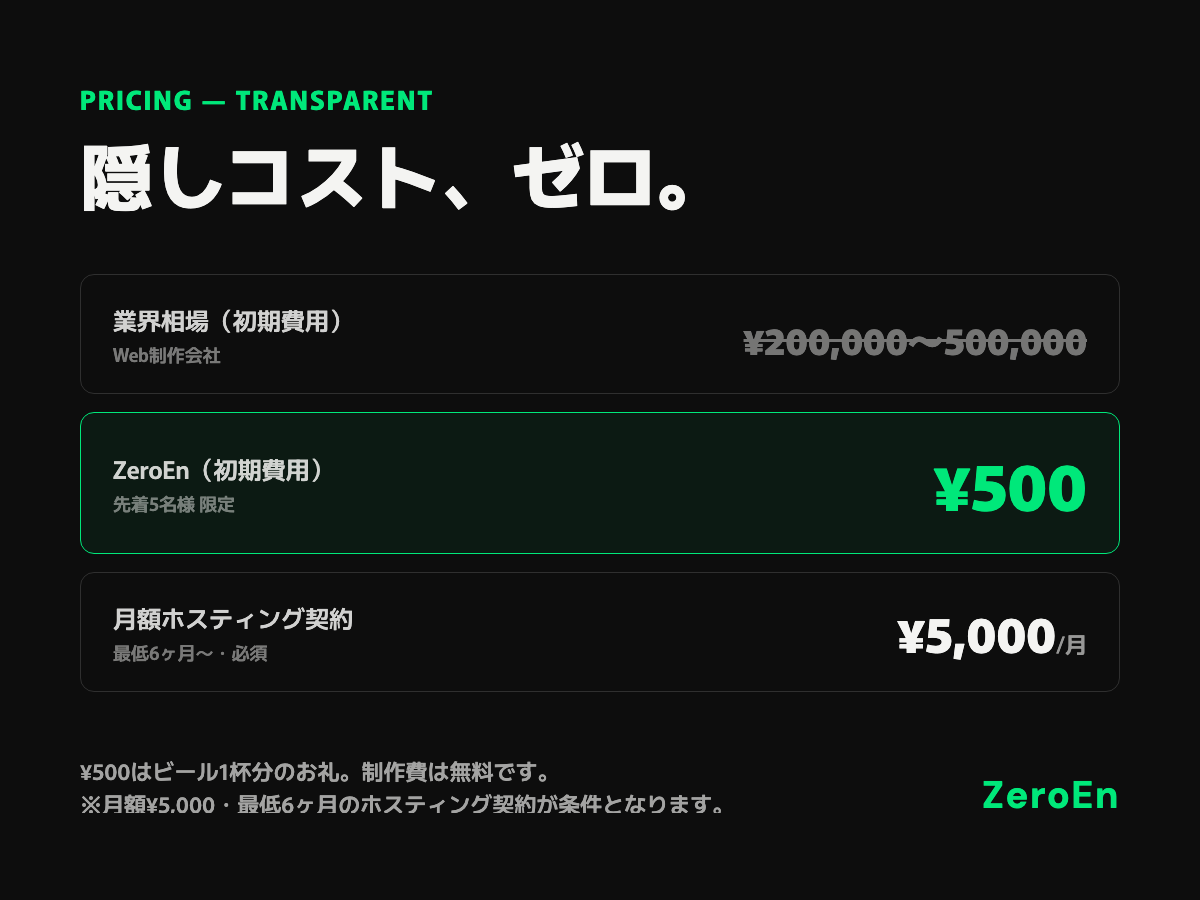
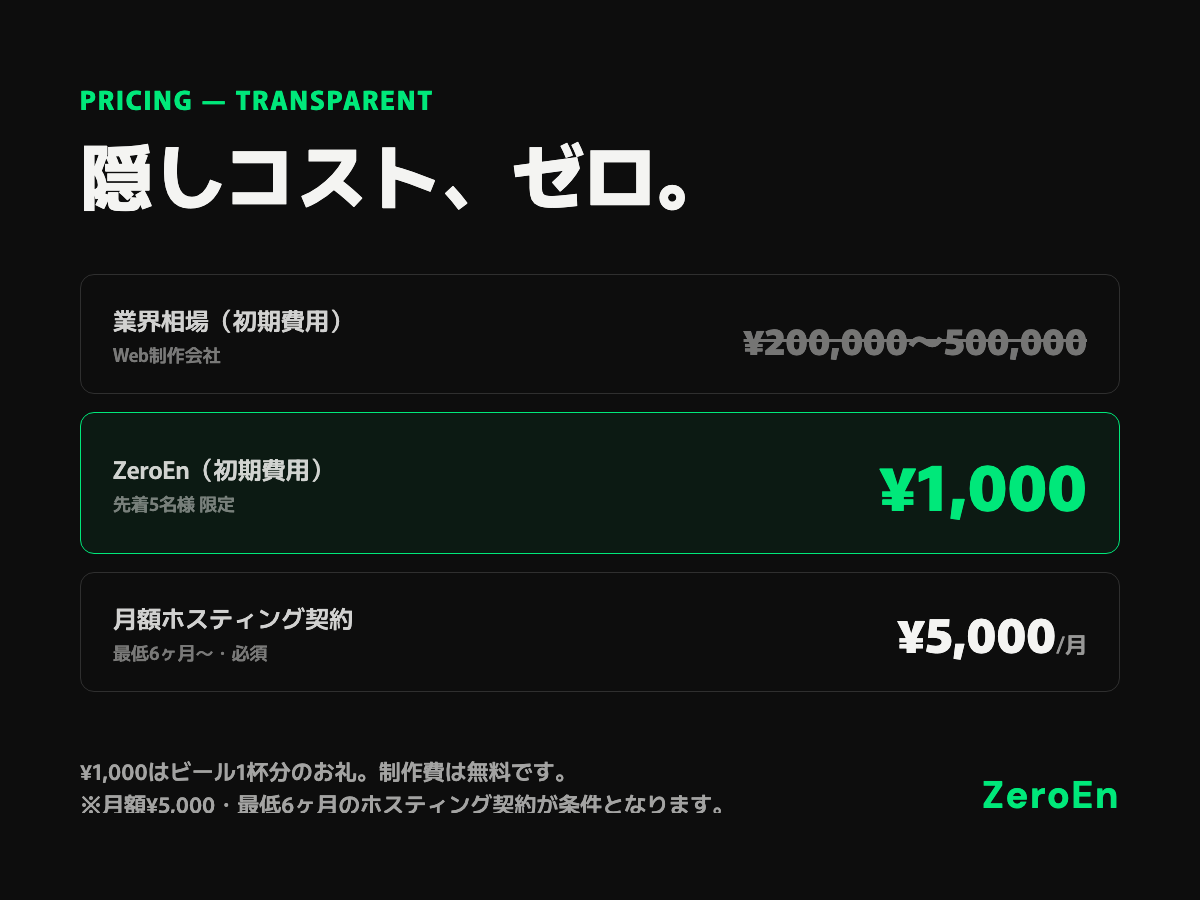
fix(marketing): update listing price ¥500 → ¥1,000 across copy and images
Coconala ITコンサル相談 category minimum is ¥1,000. Updated all
references in coconala-listing.ja.md and re-rendered listing-image-1,
listing-image-3, listing-image-6.

Changed region(s): [[0.0617, 0.84, 0.4625, 0.8711], [0.74, 0.4978, 0.8325, 0.5911]]

diff --git a/HQ/marketing/campaigns/2026-04-first-5/assets/listing-image-3-pricing.html b/HQ/marketing/campaigns/2026-04-first-5/assets/listing-image-3-pricing.html
@@ -34,7 +34,7 @@
     </div>
     <div class="row highlight">
       <div class="label">ZeroEn（初期費用）<span class="sub">先着5名様 限定</span></div>
-      <div class="value"><span class="accent">¥500</span></div>
+      <div class="value"><span class="accent">¥1,000</span></div>
     </div>
     <div class="row">
       <div class="label">月額ホスティング契約<span class="sub">最低6ヶ月〜・必須</span></div>
@@ -42,7 +42,7 @@
     </div>
   </div>
   <div class="footer">
-    <div class="footnote">¥500はビール1杯分のお礼。制作費は無料です。<br>※月額¥5,000・最低6ヶ月のホスティング契約が条件となります。</div>
+    <div class="footnote">¥1,000はビール1杯分のお礼。制作費は無料です。<br>※月額¥5,000・最低6ヶ月のホスティング契約が条件となります。</div>
     <div class="wordmark">ZeroEn</div>
   </div>
 </body></html>

diff --git a/HQ/marketing/campaigns/2026-04-first-5/assets/listing-image-6-wireframe.html b/HQ/marketing/campaigns/2026-04-first-5/assets/listing-image-6-wireframe.html
@@ -74,7 +74,7 @@
     </div>
   </div>
   <div class="footer">
-    <div class="footnote">構成はヒアリング時に最適化します。<br>※スコープが合わない場合は¥500を全額返金します。</div>
+    <div class="footnote">構成はヒアリング時に最適化します。<br>※スコープが合わない場合は¥1,000を全額返金します。</div>
     <div class="wordmark">ZeroEn</div>
   </div>
 </body></html>

diff --git a/HQ/marketing/campaigns/2026-04-first-5/assets/listing-image-1-main.html b/HQ/marketing/campaigns/2026-04-first-5/assets/listing-image-1-main.html
@@ -31,7 +31,7 @@
     <div class="price-row">
       <div class="price-block">
         <div class="label">相談料はビール1杯分のお礼だけ</div>
-        <div class="value"><span class="yen">¥</span>500</div>
+        <div class="value"><span class="yen">¥</span>1,000</div>
       </div>
     </div>
   </div>
